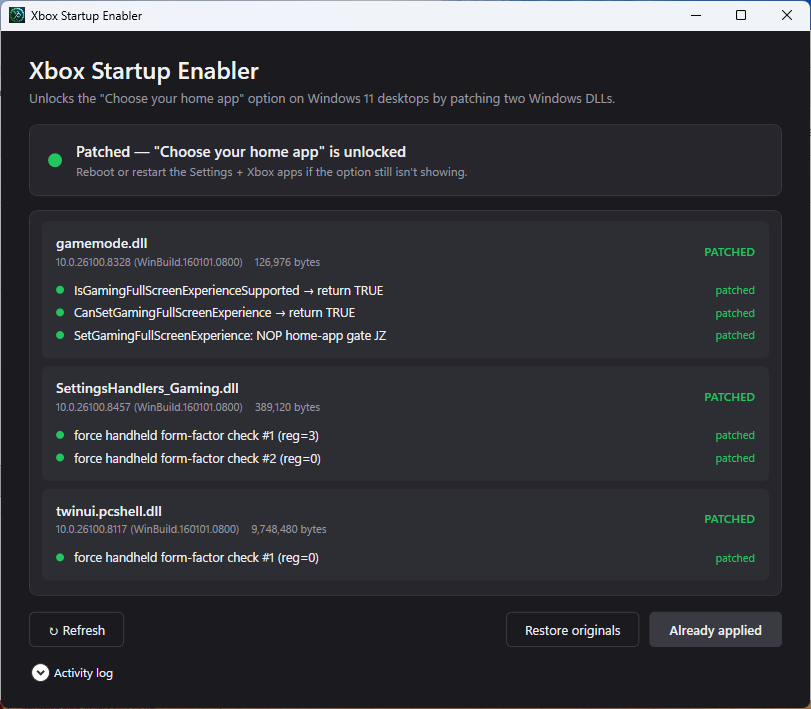
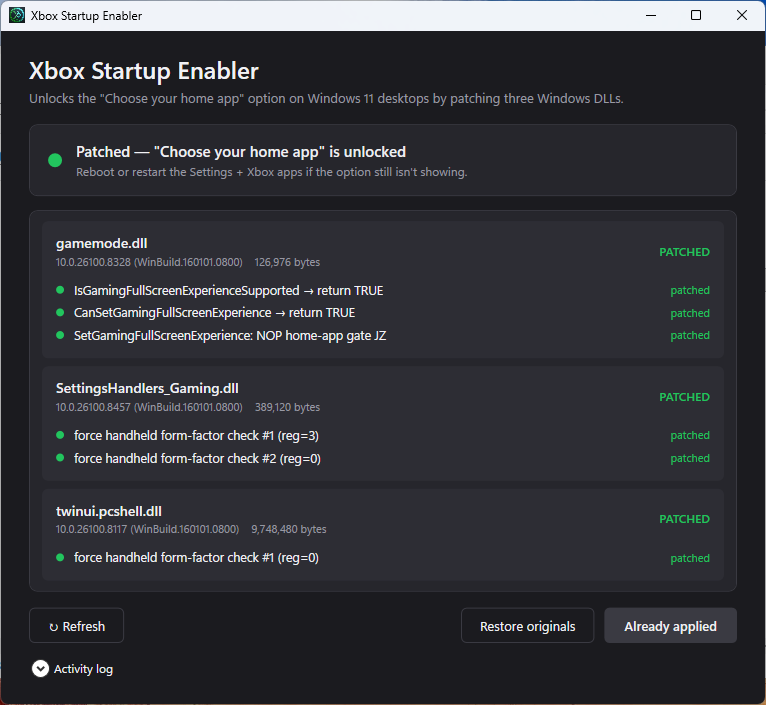
Update README.md
- Fix logo position in README.md
- Update the screenshot to the release version

diff --git a/README.md b/README.md
@@ -1,8 +1,7 @@
-<img src="src/icon.ico" alt="" width="96" align="left" />
-
-# Xbox Startup Enabler
-
-<br clear="left" />
+<h1>
+  <img src="src/icon.ico" alt="" height="40" align="absmiddle" />
+  Xbox Startup Enabler
+</h1>
 
 ![Xbox Startup Enabler window](docs/screenshot.png)
 
